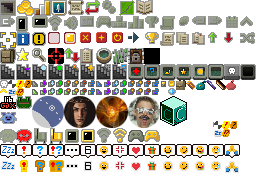
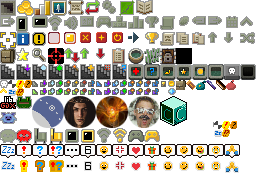
图标

Changed region(s): [[0.3125, 0.2557, 0.75, 0.3693], [0.875, 0.1705, 0.9062, 0.2273], [0.8125, 0.1989, 0.8438, 0.2557]]

diff --git a/core/src/main/java/com/shatteredpixel/shatteredpixeldungeon/scenes/HeroSelectScene.java b/core/src/main/java/com/shatteredpixel/shatteredpixeldungeon/scenes/HeroSelectScene.java
@@ -42,7 +42,11 @@ import com.shatteredpixel.shatteredpixeldungeon.windows.炼狱;
 import com.shatteredpixel.shatteredpixeldungeon.windows.系统;
 import com.shatteredpixel.shatteredpixeldungeon.windows.解压;
 import com.shatteredpixel.shatteredpixeldungeon.windows.赛季;
+import com.shatteredpixel.shatteredpixeldungeon.派对设置;
 import com.shatteredpixel.shatteredpixeldungeon.炼狱设置;
+import com.shatteredpixel.shatteredpixeldungeon.系统设置;
+import com.shatteredpixel.shatteredpixeldungeon.解压设置;
+import com.shatteredpixel.shatteredpixeldungeon.赛季设置;
 import com.watabou.gltextures.TextureCache;
 import com.watabou.input.PointerEvent;
 import com.watabou.noosa.Camera;
@@ -898,7 +902,11 @@ public class HeroSelectScene extends PixelScene {
                 }
             };
             变简单有趣.leftJustify = true;
-            变简单有趣.icon(Icons.好的.get());
+            变简单有趣.icon((
+                                    解压设置.使用()>0||
+                                    系统设置.使用()>0||
+                                    派对设置.使用()>0
+                            )?Icons.真好的.get():Icons.好的.get());
             buttons.add(变简单有趣);
             add(变简单有趣);
 
@@ -910,6 +918,11 @@ public class HeroSelectScene extends PixelScene {
             };
             变困难复杂.leftJustify = true;
             变困难复杂.icon(Icons.坏的.get());
+            变简单有趣.icon((
+                                    Challenges.activeChallenges()>0||
+                                    炼狱设置.使用()>0||
+                                    赛季设置.使用()>0
+                            )?Icons.真坏的.get():Icons.坏的.get());
             buttons.add(变困难复杂);
             add(变困难复杂);
 
@@ -965,8 +978,8 @@ public class HeroSelectScene extends PixelScene {
             重命名英雄.leftJustify = true;
             重命名英雄.icon(Icons.get(!SPDSettings.重命名英雄().equals("") ? Icons.SCROLL_COLOR : Icons.SCROLL_GREY));
 
-            buttons.add(重命名英雄);
-            add(重命名英雄);
+//            buttons.add(重命名英雄);
+//            add(重命名英雄);
 
 
             for (int i = 1; i < buttons.size(); i++) {

diff --git a/core/src/main/java/com/shatteredpixel/shatteredpixeldungeon/ui/Icons.java b/core/src/main/java/com/shatteredpixel/shatteredpixeldungeon/ui/Icons.java
@@ -63,6 +63,8 @@ public enum Icons {
     MAGNIFY,
     命中,
     BUFFS,
+    真好的,
+    真坏的,
     CATALOG,
     ALCHEMY,
     GRASS,
@@ -299,20 +301,26 @@ public enum Icons {
             case BUFFS:
                 icon.frame(icon.texture.uvRectBySize(64, 48, 16, 15));
                 break;
+            case 真好的:
+                icon.frame(icon.texture.uvRectBySize(80, 48, 16, 15));
+                break;
+            case 真坏的:
+                icon.frame(icon.texture.uvRectBySize(96, 48, 16, 15));
+                break;
             case CATALOG:
-                icon.frame(icon.texture.uvRectBySize(80, 48, 13, 16));
+                icon.frame(icon.texture.uvRectBySize(112, 48, 13, 16));
                 break;
             case ALCHEMY:
-                icon.frame(icon.texture.uvRectBySize(96, 48, 16, 16));
-                break;
-            case GRASS:
-                icon.frame(icon.texture.uvRectBySize(112, 48, 16, 16));
-                break;
-            case 锁门:
                 icon.frame(icon.texture.uvRectBySize(128, 48, 16, 16));
                 break;
-            case 深渊:
+            case GRASS:
                 icon.frame(icon.texture.uvRectBySize(144, 48, 16, 16));
+                break;
+            case 锁门:
+                icon.frame(icon.texture.uvRectBySize(160, 48, 16, 16));
+                break;
+            case 深渊:
+                icon.frame(icon.texture.uvRectBySize(176, 48, 16, 16));
                 break;
 
             case 上楼:

diff --git a/core/src/main/java/com/shatteredpixel/shatteredpixeldungeon/算法.java b/core/src/main/java/com/shatteredpixel/shatteredpixeldungeon/算法.java
@@ -81,7 +81,7 @@ public class 算法 {
 	//endregion
 
     public static String 日期(){
-        return "9.2/13:55";
+        return "9.2/14:42";
     }
 
     public static int 最小数值=1;
